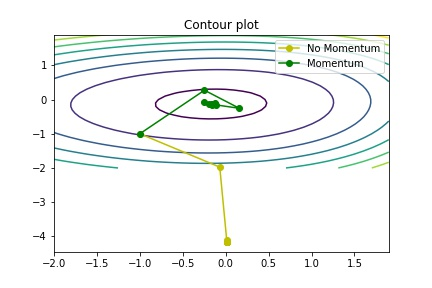
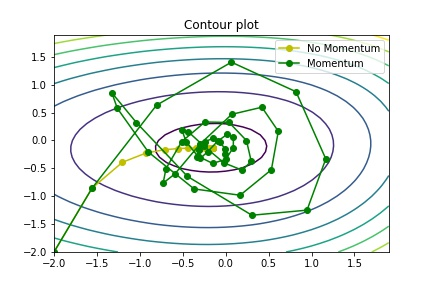
1

diff --git a/CSC411/Project_2/P2_Test/digits.py b/CSC411/Project_2/P2_Test/digits.py
@@ -354,7 +354,7 @@ def part6_get_loss_2var(w1,w2,w1_r,w1_c,w2_r,w2_c,Wb,x,y):
     output = forward(x,var_Wb)
     return NLL(y.T, output)
 
-def part6_grad_descent_2var(f, df, loss, x, y, init_t, w1,w2,w1_r,w1_c,w2_r,w2_c,ada_learning_rate = True,momentum = True, damping = 0.9, alpha=0.0001, max_iter=500, EPS = 1e-5):
+def part6_grad_descent_2var(f, df, loss, x, y, init_t, w1,w2,w1_r,w1_c,w2_r,w2_c,ada_learning_rate = True,momentum = True, damping = 0.9, alpha=0.0001, max_iter=50, EPS = 1e-5):
     """
     Input:
         ada_learning_rate: adaptive learning rate flag
@@ -378,7 +378,7 @@ def part6_grad_descent_2var(f, df, loss, x, y, init_t, w1,w2,w1_r,w1_c,w2_r,w2_c
     
     iter  = 0
     while norm(t - prev_t) >  EPS and iter < max_iter:
-        if iter % 10 == 0:
+        if iter % 1 == 0:
             traj.append((t[w1_r,w1_c],t[w2_r,w2_c]))
         #normal gradient descent
         prev_t = t.copy()
@@ -411,16 +411,18 @@ def part6():
     training_x, training_y, test_x, test_y = create_sets()     
 
     np.random.seed(1)
+    
     #create weights
     Wb = np.random.normal(0.,0.001,[num_digits,input_size+1])
     trained_Wb = grad_descent(forward, backward, NLL, training_x, training_y.T, Wb,alpha=0.000001)
     
+    #ramdomly choose W1 and W2 at the center of the image
     w1_c = 28*(input_dim/2  + int(round(6*np.random.rand())) - 3) + input_dim/2  + int(round(6*np.random.rand())) - 3
     w2_c = 28*(input_dim/2  + int(round(6*np.random.rand())) - 3) + input_dim/2  + int(round(6*np.random.rand())) - 3
     w1_r = int(round((num_digits-1)*np.random.rand()))
     w2_r = int(round((num_digits-1)*np.random.rand()))
     
-    
+    #contour plot
     w1s = np.arange(-2, 2, 0.1)
     w2s = np.arange(-2, 2, 0.1)
     w1z, w2z = np.meshgrid(w1s, w2s)
@@ -429,10 +431,10 @@ def part6():
         for j, w2 in enumerate(w2s):
             C[j,i] = part6_get_loss_2var(w1,w2,w1_r,w1_c,w2_r,w2_c,trained_Wb,training_x,training_y)
     
-    init_w1 = -1
-    init_w2 = -1        
+    init_w1 = -2
+    init_w2 = -2        
     gd_traj = part6_grad_descent_2var(forward, backward, NLL, training_x, training_y.T, trained_Wb, init_w1,init_w2,w1_r,w1_c,w2_r,w2_c, alpha=0.0025,ada_learning_rate = False, momentum = False)
-    mo_traj = part6_grad_descent_2var(forward, backward, NLL, training_x, training_y.T, trained_Wb, init_w1,init_w2,w1_r,w1_c,w2_r,w2_c, alpha=0.0025,ada_learning_rate = False)
+    mo_traj = part6_grad_descent_2var(forward, backward, NLL, training_x, training_y.T, trained_Wb, init_w1,init_w2,w1_r,w1_c,w2_r,w2_c, alpha=0.0001,ada_learning_rate = False)
     
     CS = plt.contour(w1z, w2z, C, camp=cm.coolwarm)
     plt.plot([a for a, b in gd_traj], [b for a,b in gd_traj], 'yo-', label="No Momentum")
